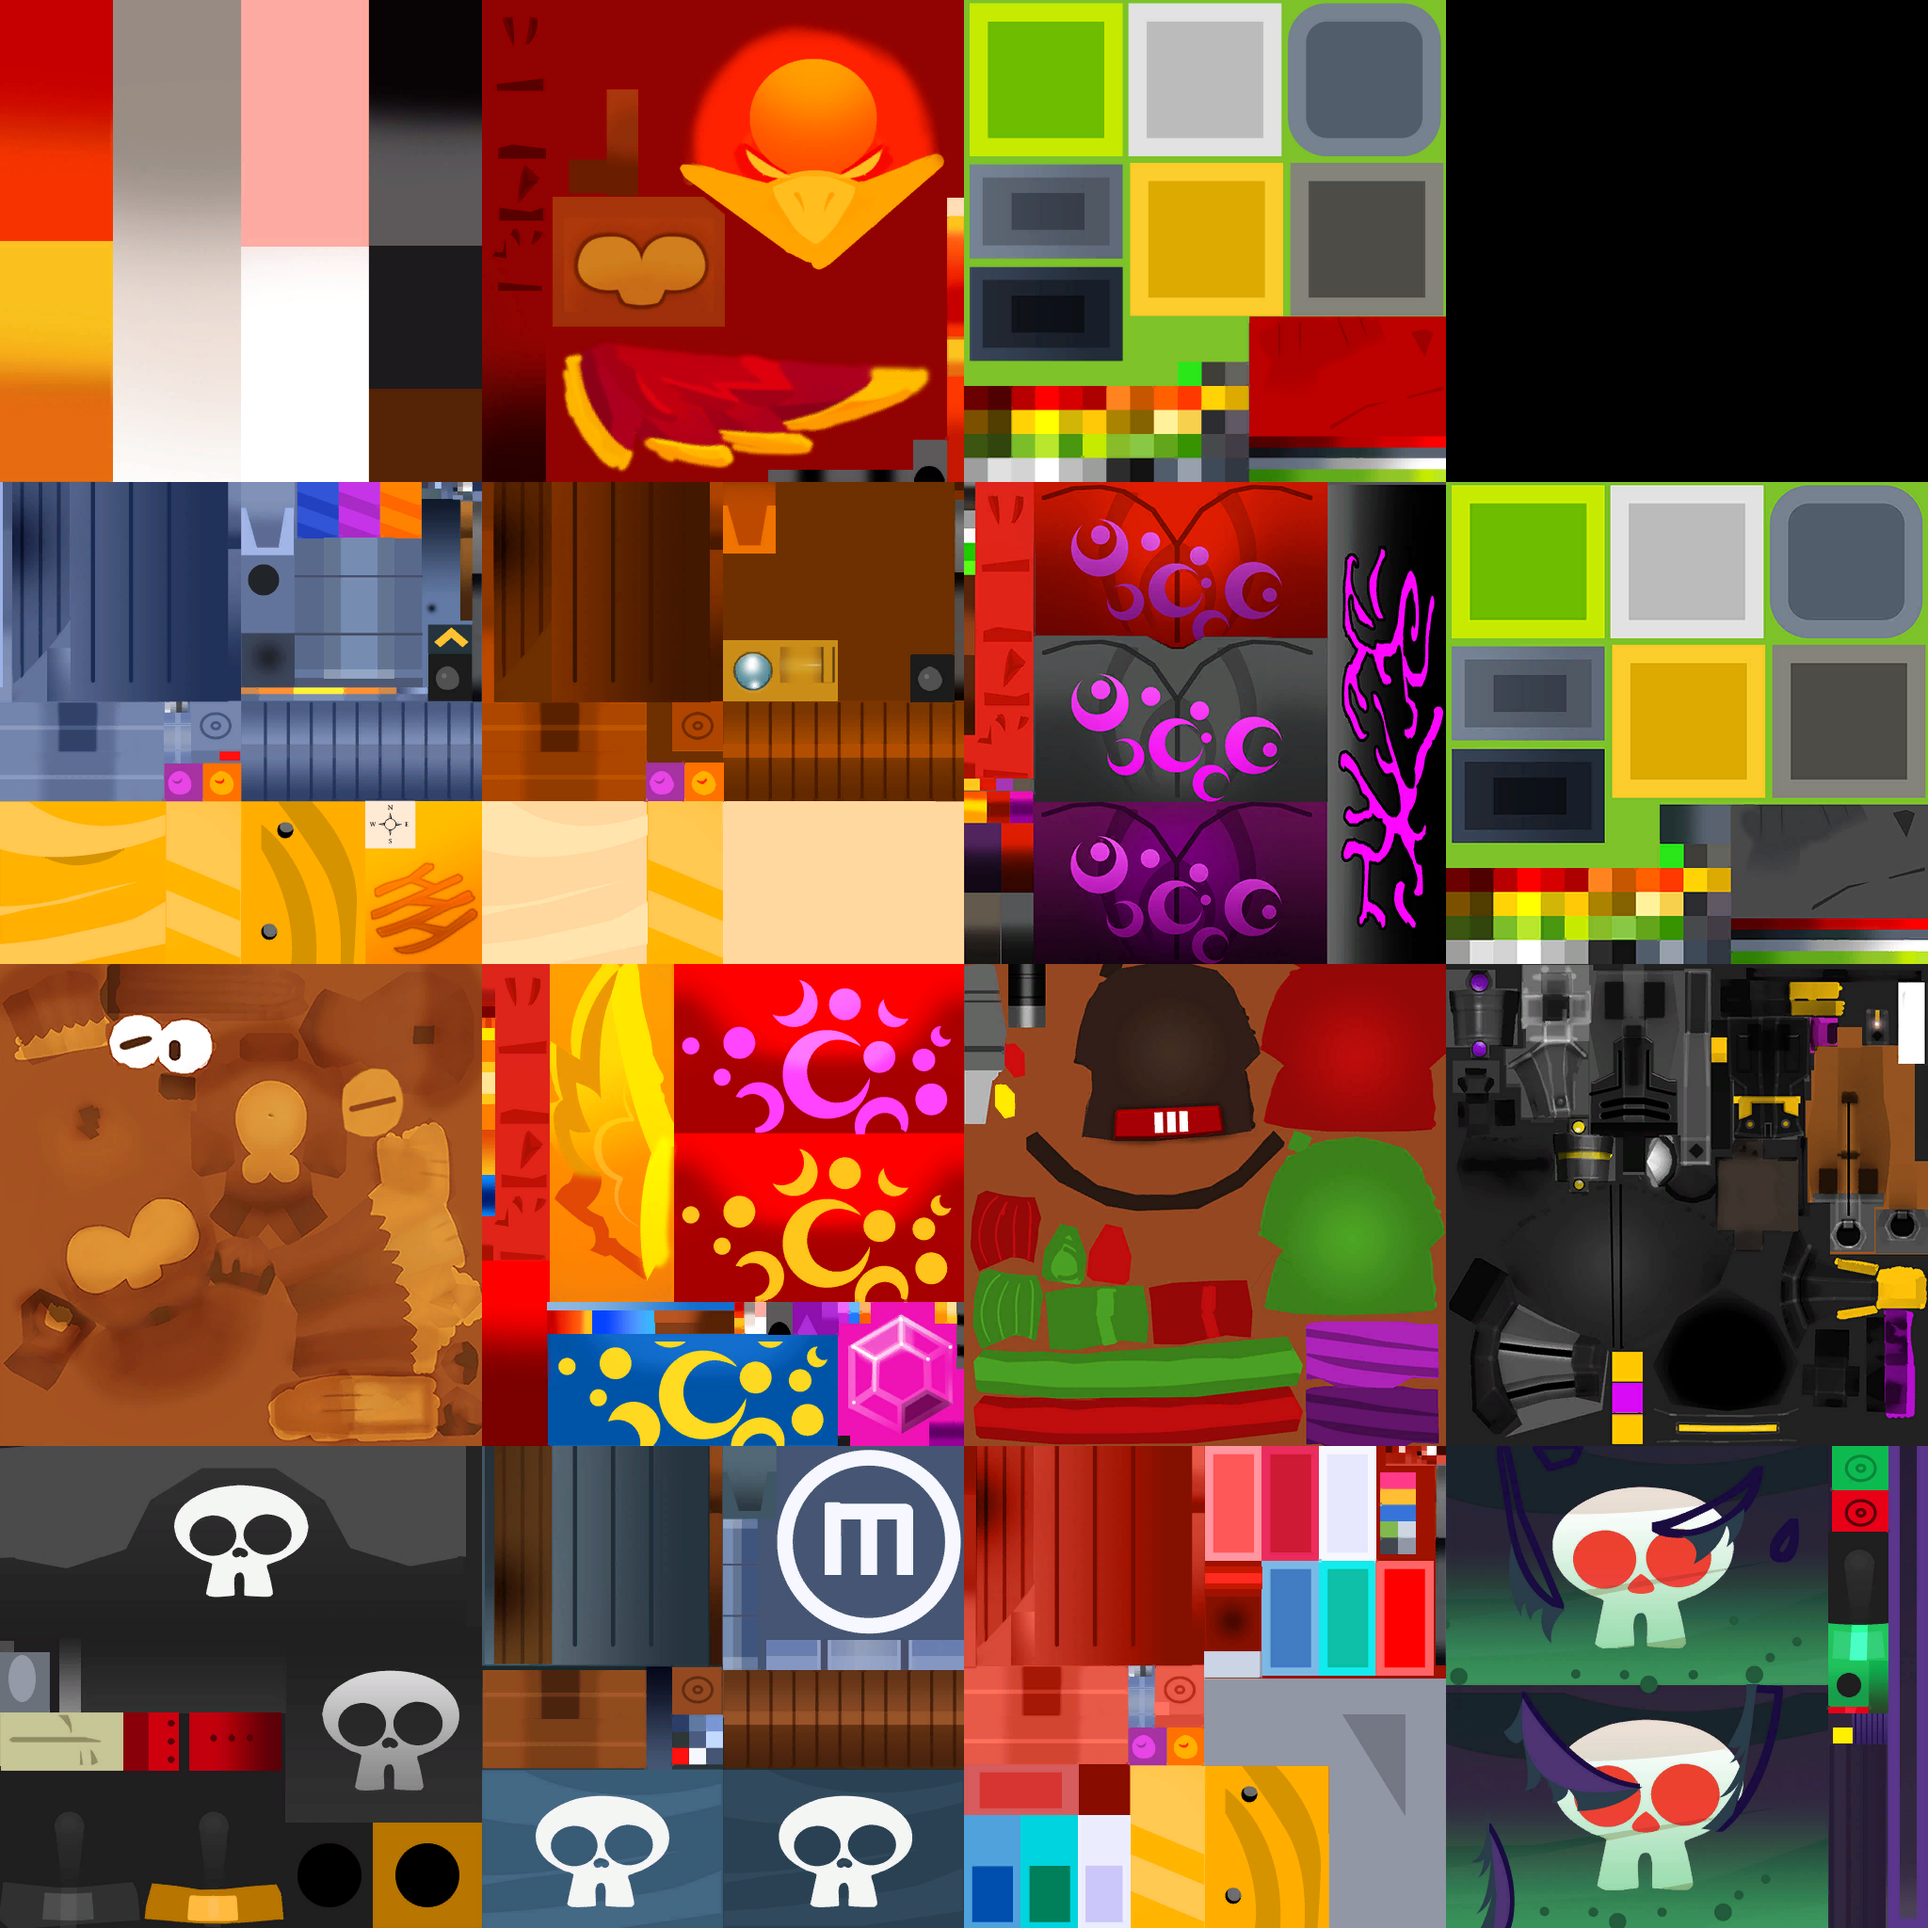
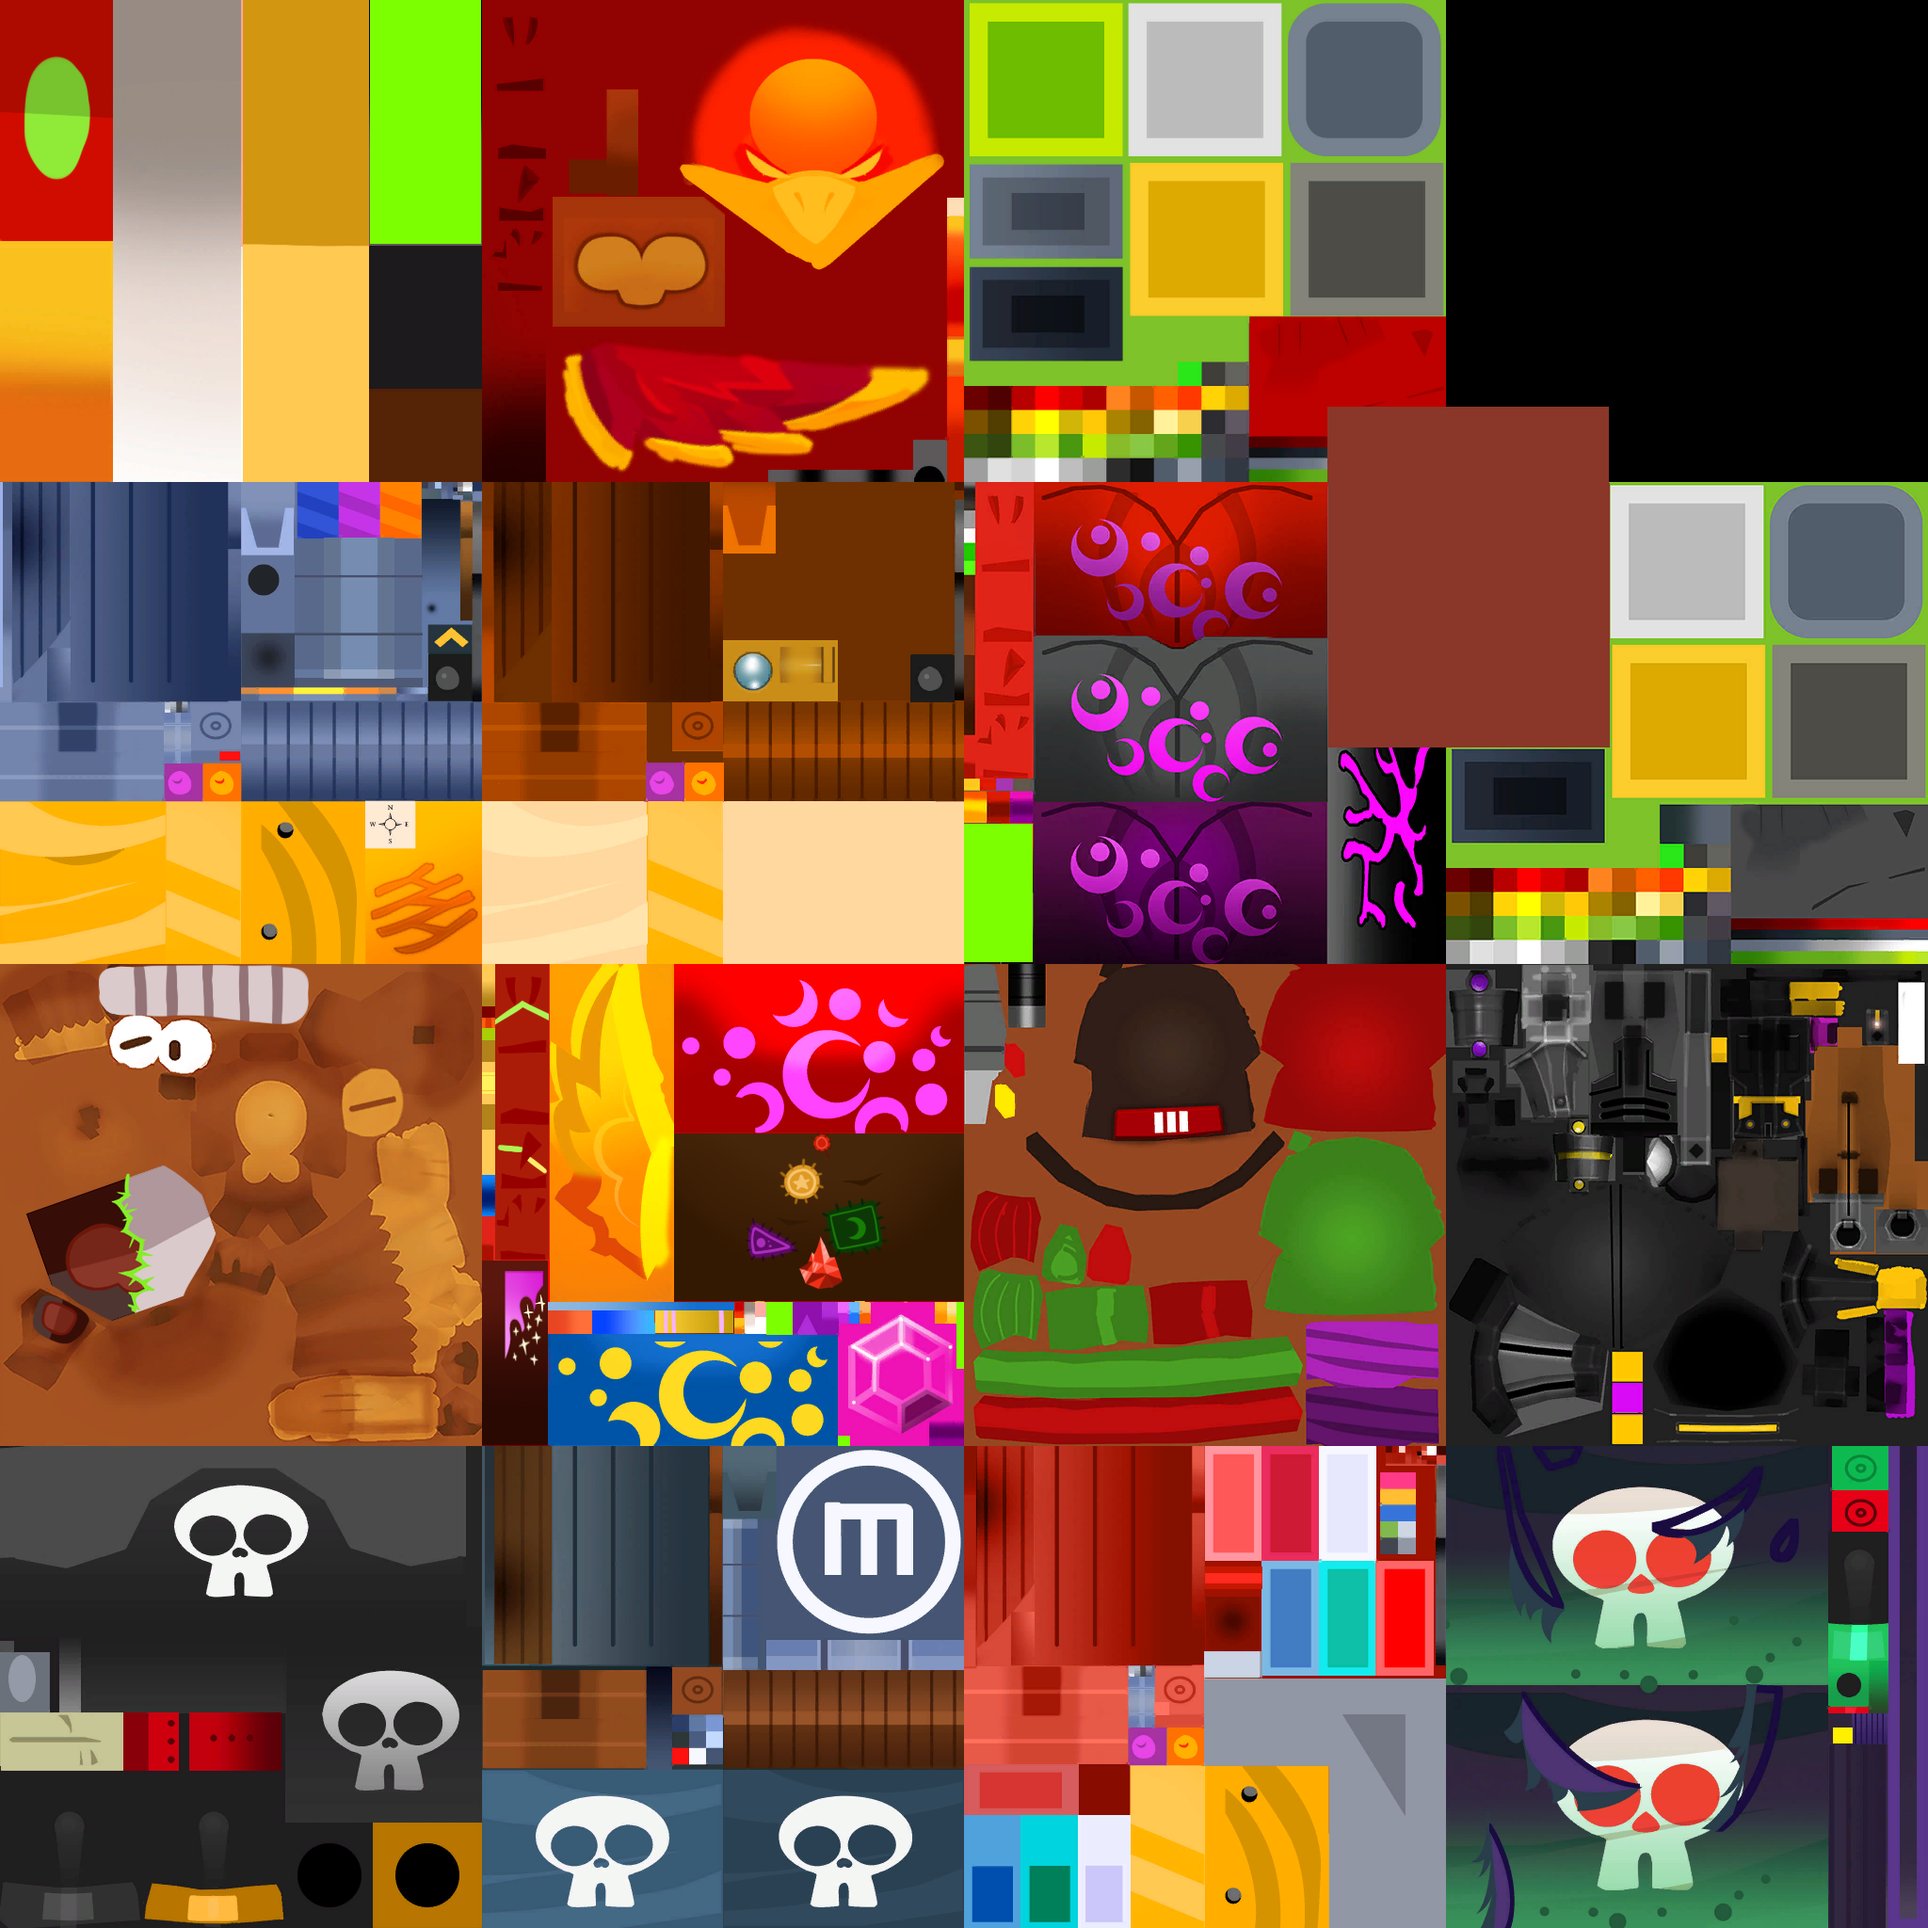
Add files via upload

diff --git a/MagicParagons.cs b/MagicParagons.cs
@@ -6,8 +6,6 @@ using BTD_Mod_Helper;
 using BTD_Mod_Helper.Api.Display;
 using BTD_Mod_Helper.Api.Towers;
 using BTD_Mod_Helper.Extensions;
-using BTD_Mod_Helper.Api.ModOptions;
-using BTD_Mod_Helper.Api.Data;
 using BTD_Mod_Helper.Api.Components;
 using MelonLoader;
 using ModHelperData = MagicParagons.ModHelperData;
@@ -25,11 +23,9 @@ using Il2CppAssets.Scripts.Models.Towers.Behaviors.Abilities.Behaviors;
 using Il2CppAssets.Scripts.Utils;
 using BTD_Mod_Helper.Api.Enums;
 using Il2CppAssets.Scripts.Models.Towers.Behaviors;
-using Il2CppAssets.Scripts.Models.GenericBehaviors;
-using Il2CppAssets.Scripts.Unity.Towers.Mods;
-using System.Collections.Generic;
-using static MagicParagons.Main.AlchemistParagon;
-using System.Security.Permissions;
+using Il2CppAssets.Scripts.Models.TowerSets;
+using Il2CppAssets.Scripts.Unity.UI_New.Popups;
+using Il2CppAssets.Scripts.SimulationTests;
 
 [assembly: MelonInfo(typeof(MagicParagons.Main), ModHelperData.Name, ModHelperData.Version, ModHelperData.RepoOwner)]
 [assembly: MelonGame("Ninja Kiwi", "BloonsTD6")]
@@ -38,13 +34,9 @@ namespace MagicParagons
 {
     public class Main : BloonsTD6Mod
     {
-        public override void OnNewGameModel(GameModel gameModel, Il2CppSystem.Collections.Generic.List<ModModel> mods)
-        {
-            
-        }
         public override void OnTitleScreen()
         {
-
+            
         }
         public override void OnApplicationStart()
         {
@@ -158,8 +150,6 @@ namespace MagicParagons
                     abilityModel.GetBehavior<MorphTowerModel>().morthTowerNotSelf.newTowerModel.GetDescendants<TravelStraitModel>().ForEach(travels => travels.lifespan = 2);
                     abilityModel.GetBehavior<MorphTowerModel>().morthTowerNotSelf.newTowerModel.ApplyDisplay<MonkeTransformation>();
 
-
-
                     towerModel.GetDescendants<FilterInvisibleModel>().ForEach(filter => filter.isActive = false);
                     towerModel.GetDescendants<DamageModel>().ForEach(immune => immune.immuneBloonProperties = Il2Cpp.BloonProperties.None);
                 }
@@ -211,7 +201,7 @@ namespace MagicParagons
             }
             public class PermaBrewIcon : ModBuffIcon
             {
-                public new virtual SpriteReference IconReference  => (SpriteReference)VanillaSprites.PermanentBrewUpgradeIcon;
+                public new virtual SpriteReference IconReference => (SpriteReference)VanillaSprites.PermanentBrewUpgradeIcon;
             }
         }
         public class WizardParagon
@@ -223,6 +213,8 @@ namespace MagicParagons
             }
             public class GrandMagusUpgrade : ModParagonUpgrade<GrandMagus>
             {
+                private TowerSet towerSet;
+
                 public override int Cost => 0;
                 public override string Description => "Unravel the mysteries of the arcane arts and see for yourself why they are kept secret.";
                 public override string DisplayName => "Grand Magus";
@@ -230,31 +222,63 @@ namespace MagicParagons
                 public override string Portrait => "WizardParagonPortrait";
                 public override void ApplyUpgrade(TowerModel towerModel)
                 {
+                    towerModel.towerSelectionMenuThemeId = "UnpoppedArmy";
                     towerModel.displayScale = 2;
                     towerModel.range = 75;
                     towerModel.RemoveBehaviors<AttackModel>();
-                    towerModel.AddBehavior(new TowerCreateTowerModel("Praying this works", Game.instance.model.GetTowerFromId("WizardMonkey-050").GetBehavior<TowerCreateTowerModel>().towerModel.Duplicate(), true));
+
+                    towerModel.AddBehavior(new TowerCreateTowerModel("Praying this works", Game.instance.model.GetTowerFromId("WizardMonkey-050").GetDescendant<TowerCreateTowerModel>().towerModel, true));
+                    //towerModel.AddBehavior(new TowerCreateTowerModel("Praying this works", Game.instance.model.GetTowerFromId("DartMonkey-050"), true));
                     var PhoenixModel = towerModel.GetBehavior<TowerCreateTowerModel>().towerModel;
                     PhoenixModel.GetDescendant<DamageModel>().damage = 15;
                     PhoenixModel.GetDescendant<WeaponModel>().rate = 0.1f;
+                    PhoenixModel.GetDescendant<ProjectileModel>().ApplyDisplay<SmolBall>();
+                    PhoenixModel.GetDescendant<ProjectileModel>().scale = 0.3f;
 
-                    var towerdisplay = towerModel.display.guidRef;
-                    var phoenixmodeldisplay = PhoenixModel.display.guidRef;
-
-                    MelonLogger.Msg("The tower display = " + towerdisplay);
-                    MelonLogger.Msg("The phoenixmodel display = " + phoenixmodeldisplay);
-
+                    towerModel.AddBehavior(Game.instance.model.GetTowerFromId("WizardMonkey-005").GetBehaviors<AttackModel>().Last().Duplicate());
+                    towerModel.AddBehavior(Game.instance.model.GetTowerFromId("WizardMonkey-005").GetBehavior<NecromancerZoneModel>().Duplicate());
+                    var NecromancerModel = towerModel.GetAttackModels()[0];
 
                     towerModel.GetDescendants<FilterInvisibleModel>().ForEach(filter => filter.isActive = false);
                     towerModel.GetDescendants<DamageModel>().ForEach(immune => immune.immuneBloonProperties = Il2Cpp.BloonProperties.None);
                 }
             }
-            public class GrandMagusDisplay : ModTowerDisplay<GrandMagus>
+            public class SmolBall : ModDisplay
             {
-                public override string BaseDisplay => GetDisplay("WizardMonkey", 0, 3, 0);
-                public override bool UseForTower(int[] tiers)
+                public override string BaseDisplay => "7e672209db39b9e4db63c13dbe11cad5";
+                public override void ModifyDisplayNode(UnityDisplayNode node)
+                {
+                    Set2DTexture(node, "WizardParagonIcon");
+                }
+            }
+            public class GrandMagusPhoenixDisplay : ModTowerDisplay<GrandMagus>
+            {
+                public override string BaseDisplay => "1e5aa5cc44941da43a90880b50d5d112";
+                public override bool UseForTower(int[] tiers)    
                 { return IsParagon(tiers); }
                 public override int ParagonDisplayIndex => 0;
+                public override void ModifyDisplayNode(UnityDisplayNode node)
+                {
+                    foreach (var renderer in node.genericRenderers)
+                    {
+                        if (renderer == node.genericRenderers.First())
+                        {
+                            renderer.material.mainTexture = GetTexture("WizardParagonPhoenixDisplay");
+                            renderer.SetOutlineColor(new Color(1f / 255, 109f / 255, 130f / 255));
+                        }
+                        else
+                        {
+
+                        }
+                    }
+                }
+            }
+            public class GrandMagusDisplay : ModDisplay
+            {
+                public override string BaseDisplay => GetDisplay("WizardMonkey", 0, 3, 0);
+                //public override bool UseForTower(int[] tiers)
+                //{ return IsParagon(tiers); }
+                //public override int ParagonDisplayIndex => 0;
                 public override void ModifyDisplayNode(UnityDisplayNode node)
                 {
                     foreach (var renderer in node.genericRenderers)
@@ -265,29 +289,5 @@ namespace MagicParagons
                 }
             }
         }
-    }
-    public class Settings : ModSettings
-    {
-        
-
-        private static readonly ModSettingCategory OPParagons = new ("Toggle OP Mode of Paragons")
-        {
-            modifyCategory = category =>
-            {
-
-            }
-        };
-
-        
-
-        private static readonly ModSettingCategory ParagonCost = new("Paragon Costs")
-        {
-            modifyCategory = category =>
-            {
-
-            }
-        };
-
-        
-    }
+    } 
 }
